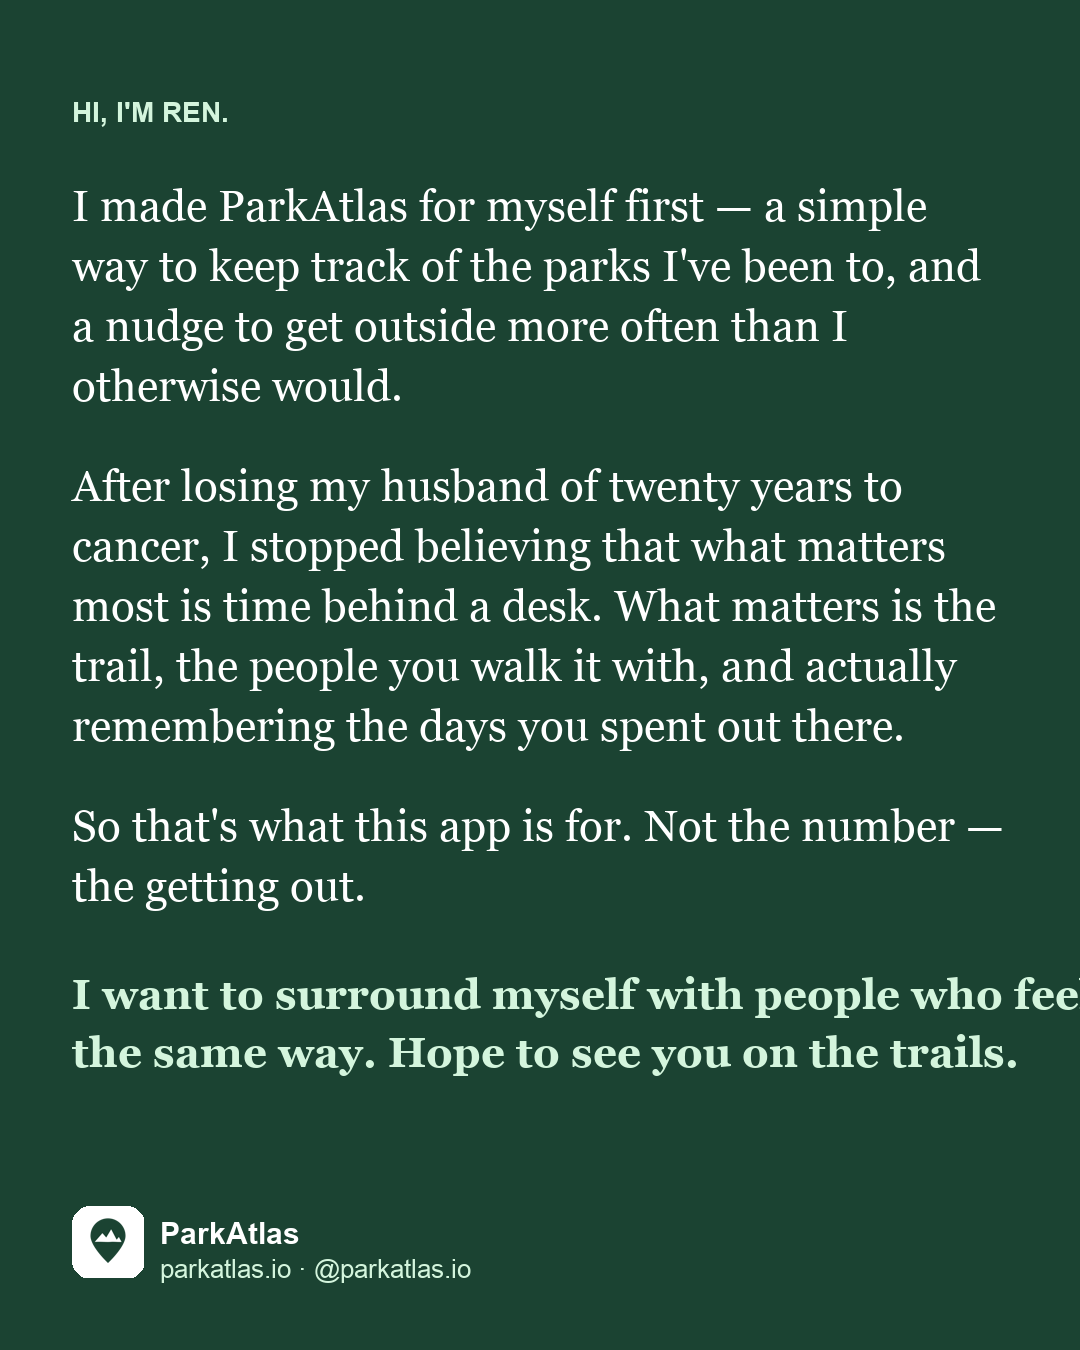
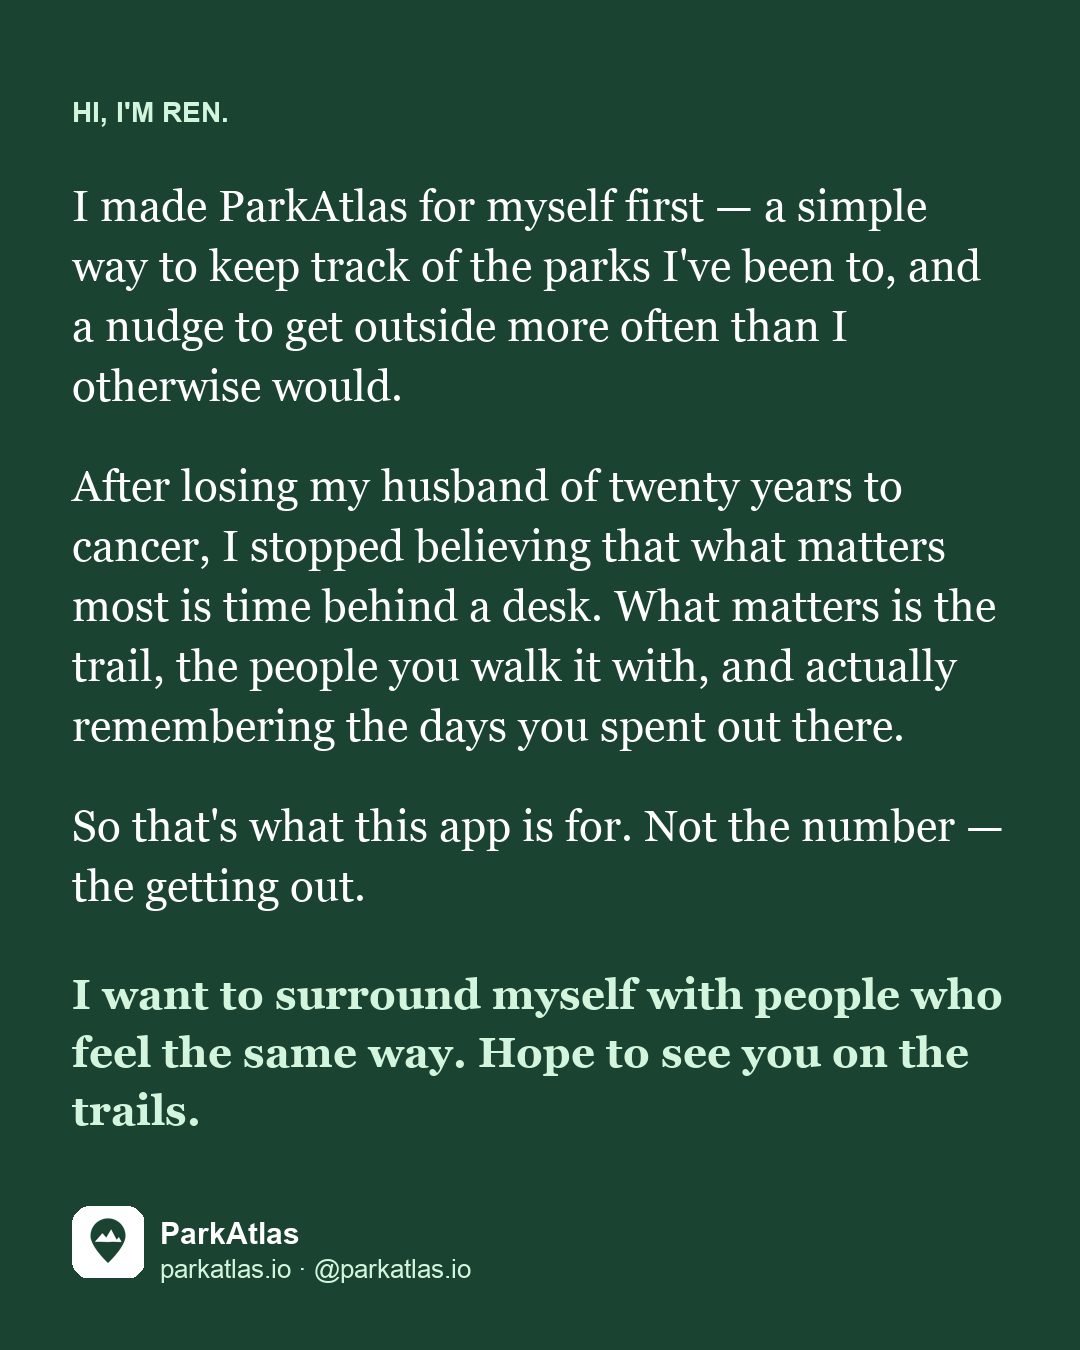
IG carousel: wrap closing line

Changed region(s): [[0.0611, 0.7467, 0.9472, 0.84], [0.9167, 0.7156, 1.0, 0.7467], [0.0611, 0.7467, 0.0917, 0.7778]]

diff --git a/ParkAtlas/content/build-about-post.py b/ParkAtlas/content/build-about-post.py
@@ -99,8 +99,11 @@ for p in paras:
         d.text((72, y), ln, font=f_body, fill=WHITE)
         y += 60
     y += 40
-d.text((72, y + 10), "I want to surround myself with people who feel", font=font(SERIF, 42), fill=MINT)
-d.text((72, y + 68), "the same way. Hope to see you on the trails.", font=font(SERIF, 42), fill=MINT)
+f_close = font(SERIF, 42)
+y += 10
+for ln in wrap(d, "I want to surround myself with people who feel the same way. Hope to see you on the trails.", f_close, W - 144):
+    d.text((72, y), ln, font=f_close, fill=MINT)
+    y += 58
 brand_footer(s2)
 s2.convert("RGB").save(OUT / "about-2.png", quality=95)
 
